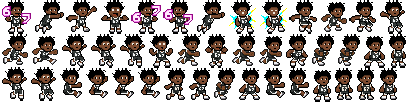
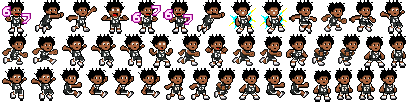
Chore(assets): update probasketball sprites and version

diff --git a/index.html b/index.html
@@ -128,7 +128,7 @@
             }
         })();
     </script>
-    <script type="module" src="src/main.js?v=20260122-1400"></script>
+    <script type="module" src="src/main.js?v=20260122-2030"></script>
 
 </body>
 
